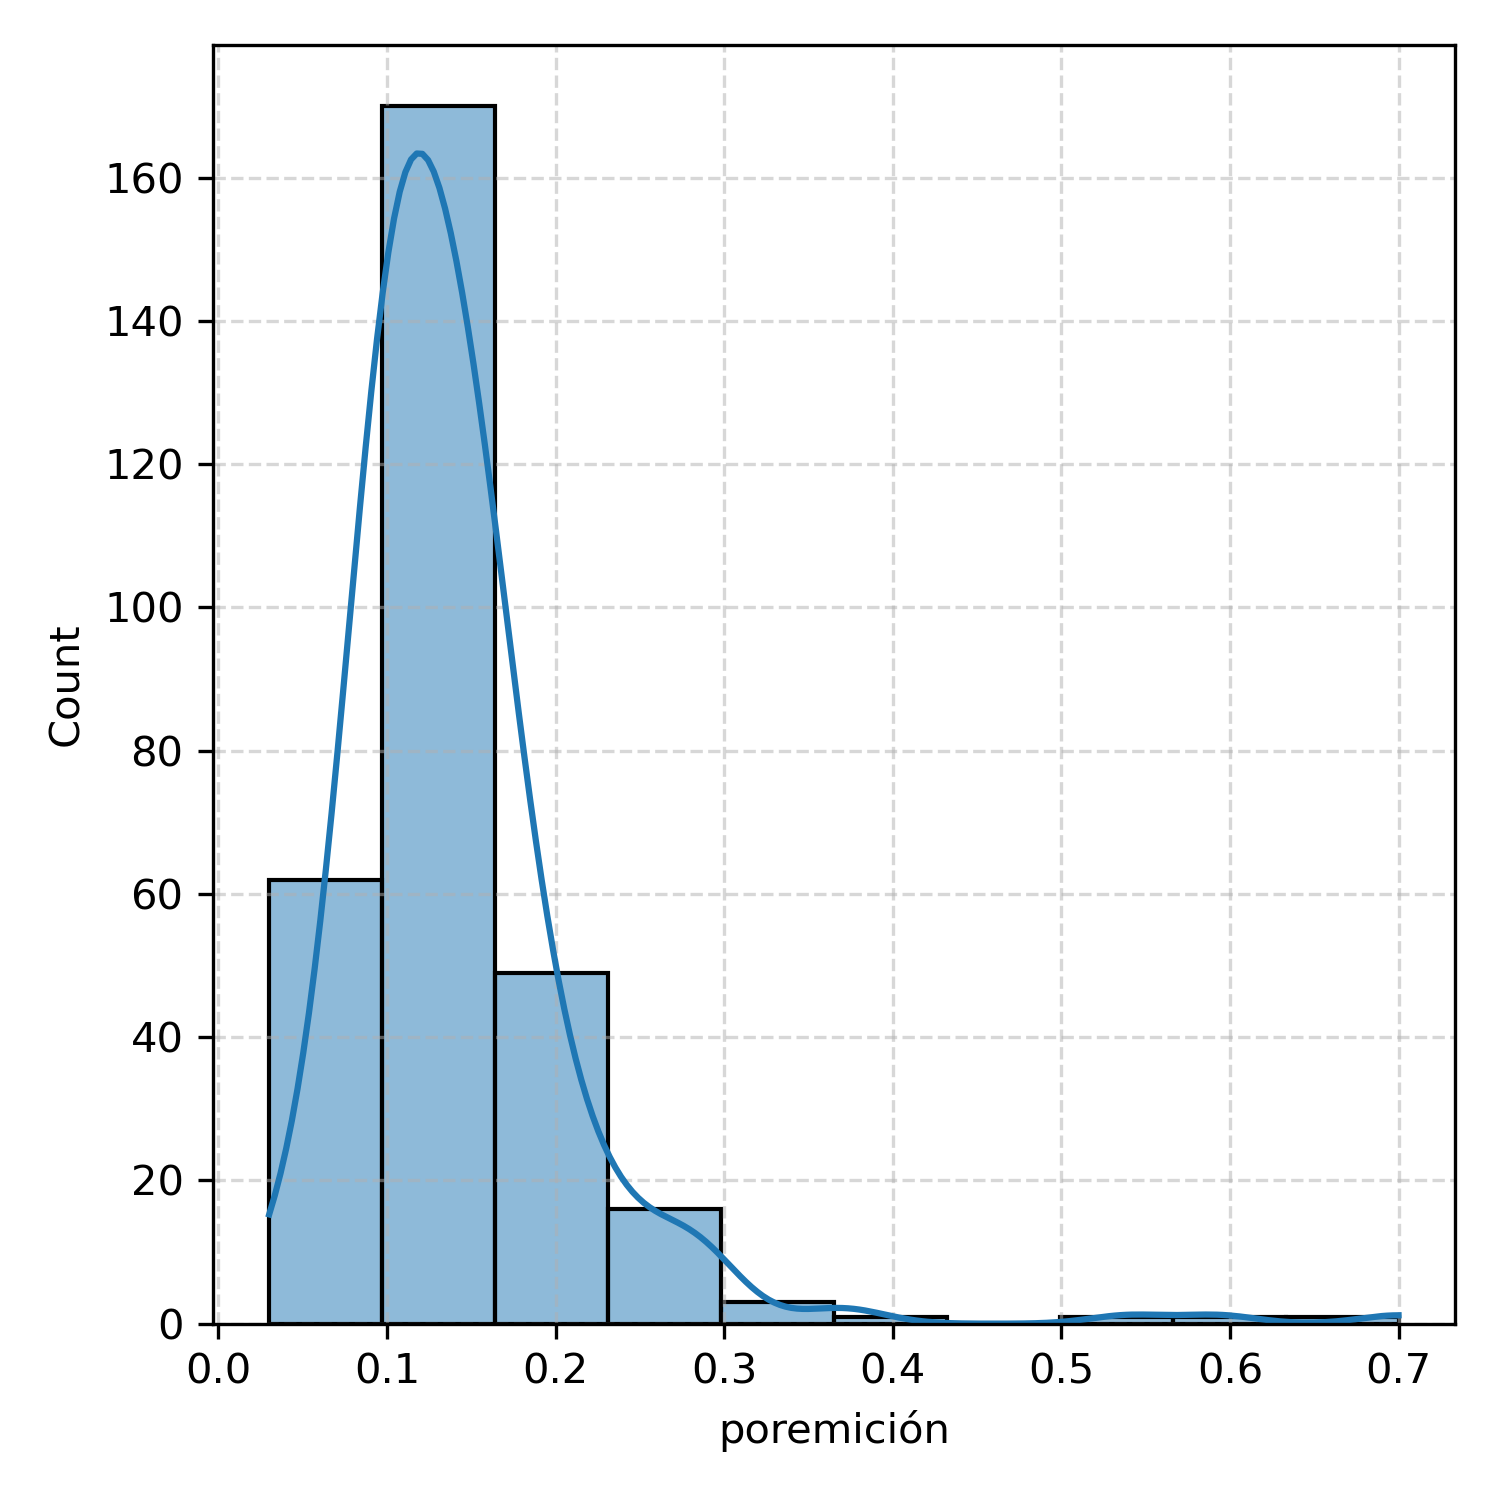
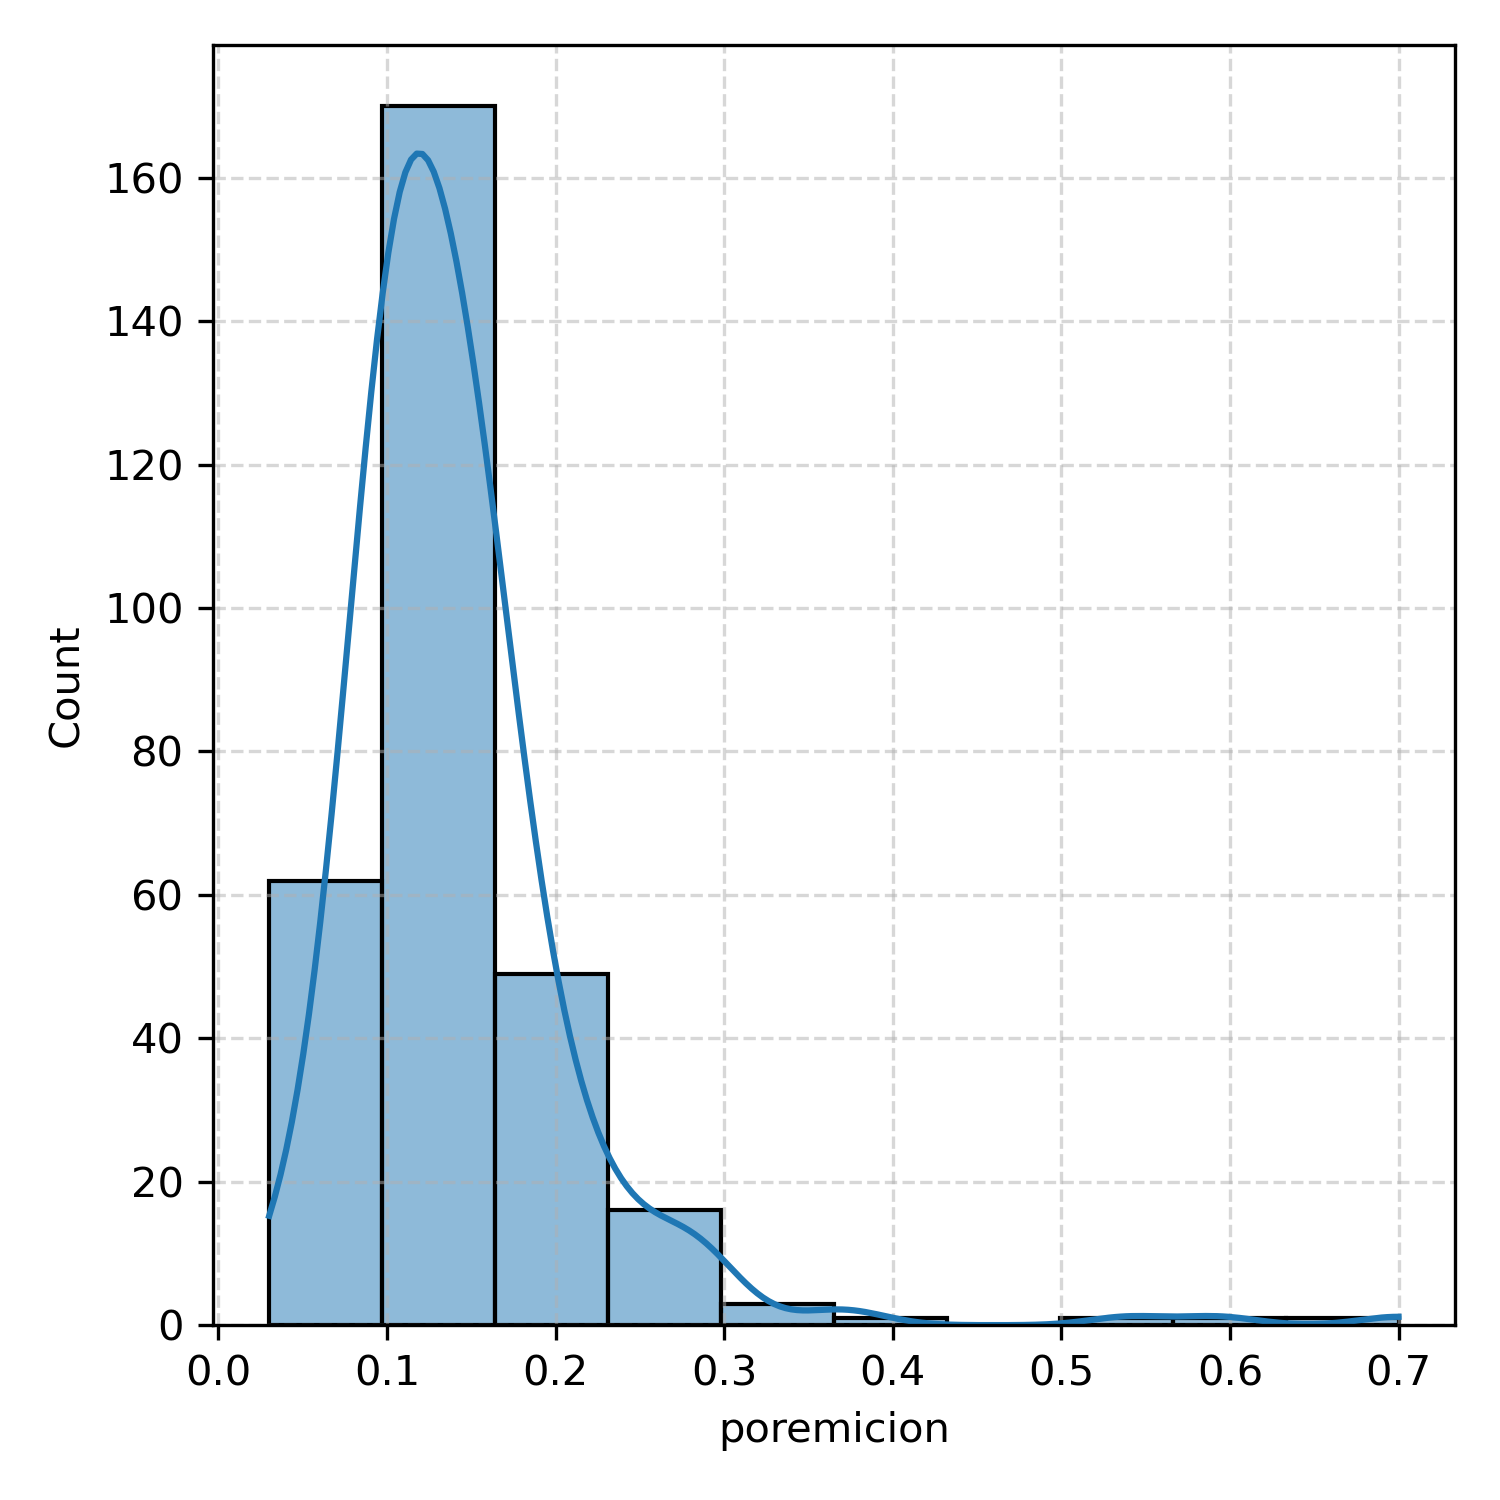
plotnotworking

diff --git a/src/eda/views/histogram_plot.py b/src/eda/views/histogram_plot.py
@@ -3,6 +3,9 @@ from ..views import (prepare_plot, render_or_save_plot)
 from ..utils import is_numeric_column
 
 # Principio Abierto/Cerrado
+data = {
+    "title": []
+}
 
 """
 SOLID
@@ -13,8 +16,7 @@ L: Liskov Substitution
 I: Interface Segregation -> Segregación de interfaces
 D: Dependency Inversion
 """
-
-                            # Este config es un diccionario con la configuración
+# Este config es un diccionario con la configuración
 def plot_histogram(df, column, config): # Los histogramas solo funciona con valores numéricos
     """_summary_
 
@@ -40,10 +42,10 @@ def plot_histogram(df, column, config): # Los histogramas solo funciona con valo
     format = config.get('format', 'png')
     dpi = config.get('dpi', 300)
     output_dir = config.get('output_dir', None)
-    filename = config.get('filename', f"{column}_histogram.{format}")
+    filename = config.get('filename', "histogram_"+column)
     
     
-    sns.histplot(df[column], bins=bins, kde=kde) # Kernel Density Estimation -> Define la curva de densidad de probabilidad
+    sns.histplot(df, x=column, bins=bins, kde=kde) # Kernel Density Estimation -> Define la curva de densidad de probabilidad
     prepare_plot(title, xlabel, ylabel, show_grid, linestyle, alpha)
     render_or_save_plot(output_dir, filename, format, dpi)
 

diff --git a/__main__.py b/__main__.py
@@ -71,8 +71,8 @@ def main():
     
     plot_factory(df, "regression", ("Minutos de emisión", "Minutos visualizados"), default_regression_config)
     plot_factory(df, "scatter", ("Minutos de emisión", "Minutos visualizados"), default_scatter_config)
-    plot_factory(df, "histogram", "poremición" , default_histogram_config)
-    plot_factory(df, "boxplot",  "Retención" , default_boxplot_config)
+    plot_factory(df, "histogram", "poremicion" , default_histogram_config)
+    plot_factory(df, "boxplot",  "Retencion" , default_boxplot_config)
     col_select = [2,3,4,5,6,7,11,22,23]
     df_temp = select_columns_df(df, col_select)
     plot_factory(df_temp, "heatmap", None, default_heatmap_config)

diff --git a/arreglando_datosstream.py b/arreglando_datosstream.py
@@ -32,8 +32,8 @@ dfb["dias"] = dias
 dfb["daysofweek"] = diasemana
 dfb["meses"] = meses
 dfb["años"] = anno
-dfb["Retención"]  = (dfb["Minutos visualizados"] / dfb["Minutos de emisión"])
-dfb["poremición"] = ( dfb["Minutos de emisión"]/dfb["Minutos visualizados"] )
+dfb["Retencion"]  = (dfb["Minutos visualizados"] / dfb["Minutos de emisión"])
+dfb["poremicion"] = ( dfb["Minutos de emisión"]/dfb["Minutos visualizados"] )
 dfb["horas_emitidas"] = dfb["Minutos de emisión"]/60
 dfb["horas_visualizadas"] = dfb["Minutos visualizados"]/60
     

diff --git a/src/eda/views/boxplot_plot.py b/src/eda/views/boxplot_plot.py
@@ -32,7 +32,7 @@ def plot_boxplot(df, column, config):
     format = config.get('format', 'png')
     dpi = config.get('dpi', 300)
     output_dir = config.get('output_dir', None)
-    filename = config.get('filename', f"{column}_histogram.{format}")
+    filename = config.get('filename', f"{column}_boxplot.{format}")
     
     sns.boxplot(df, x=column, orient=orientation)
     prepare_plot(title, xlabel, ylabel, show_grid, linestyle, alpha)
